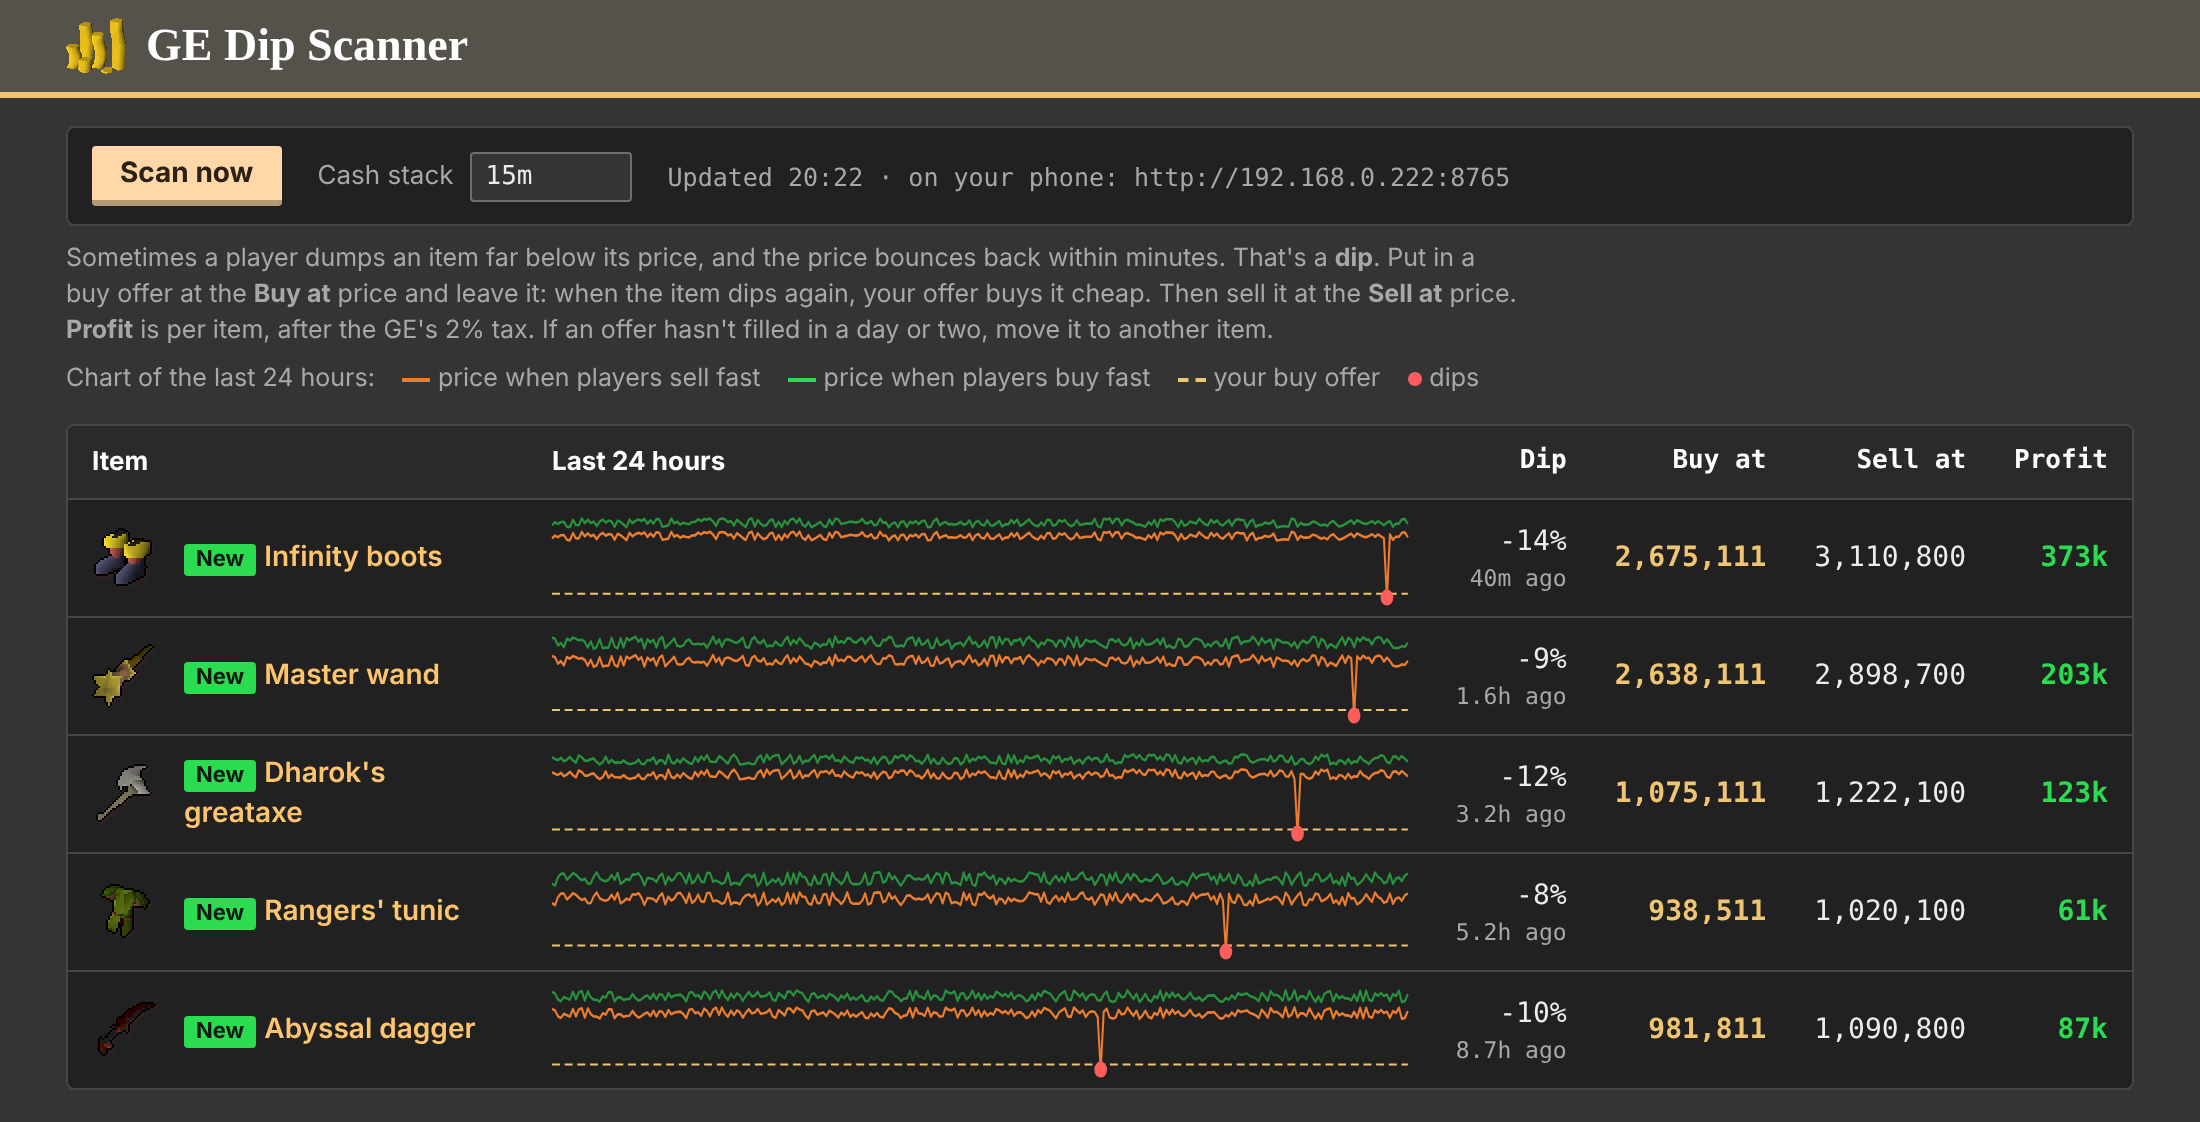
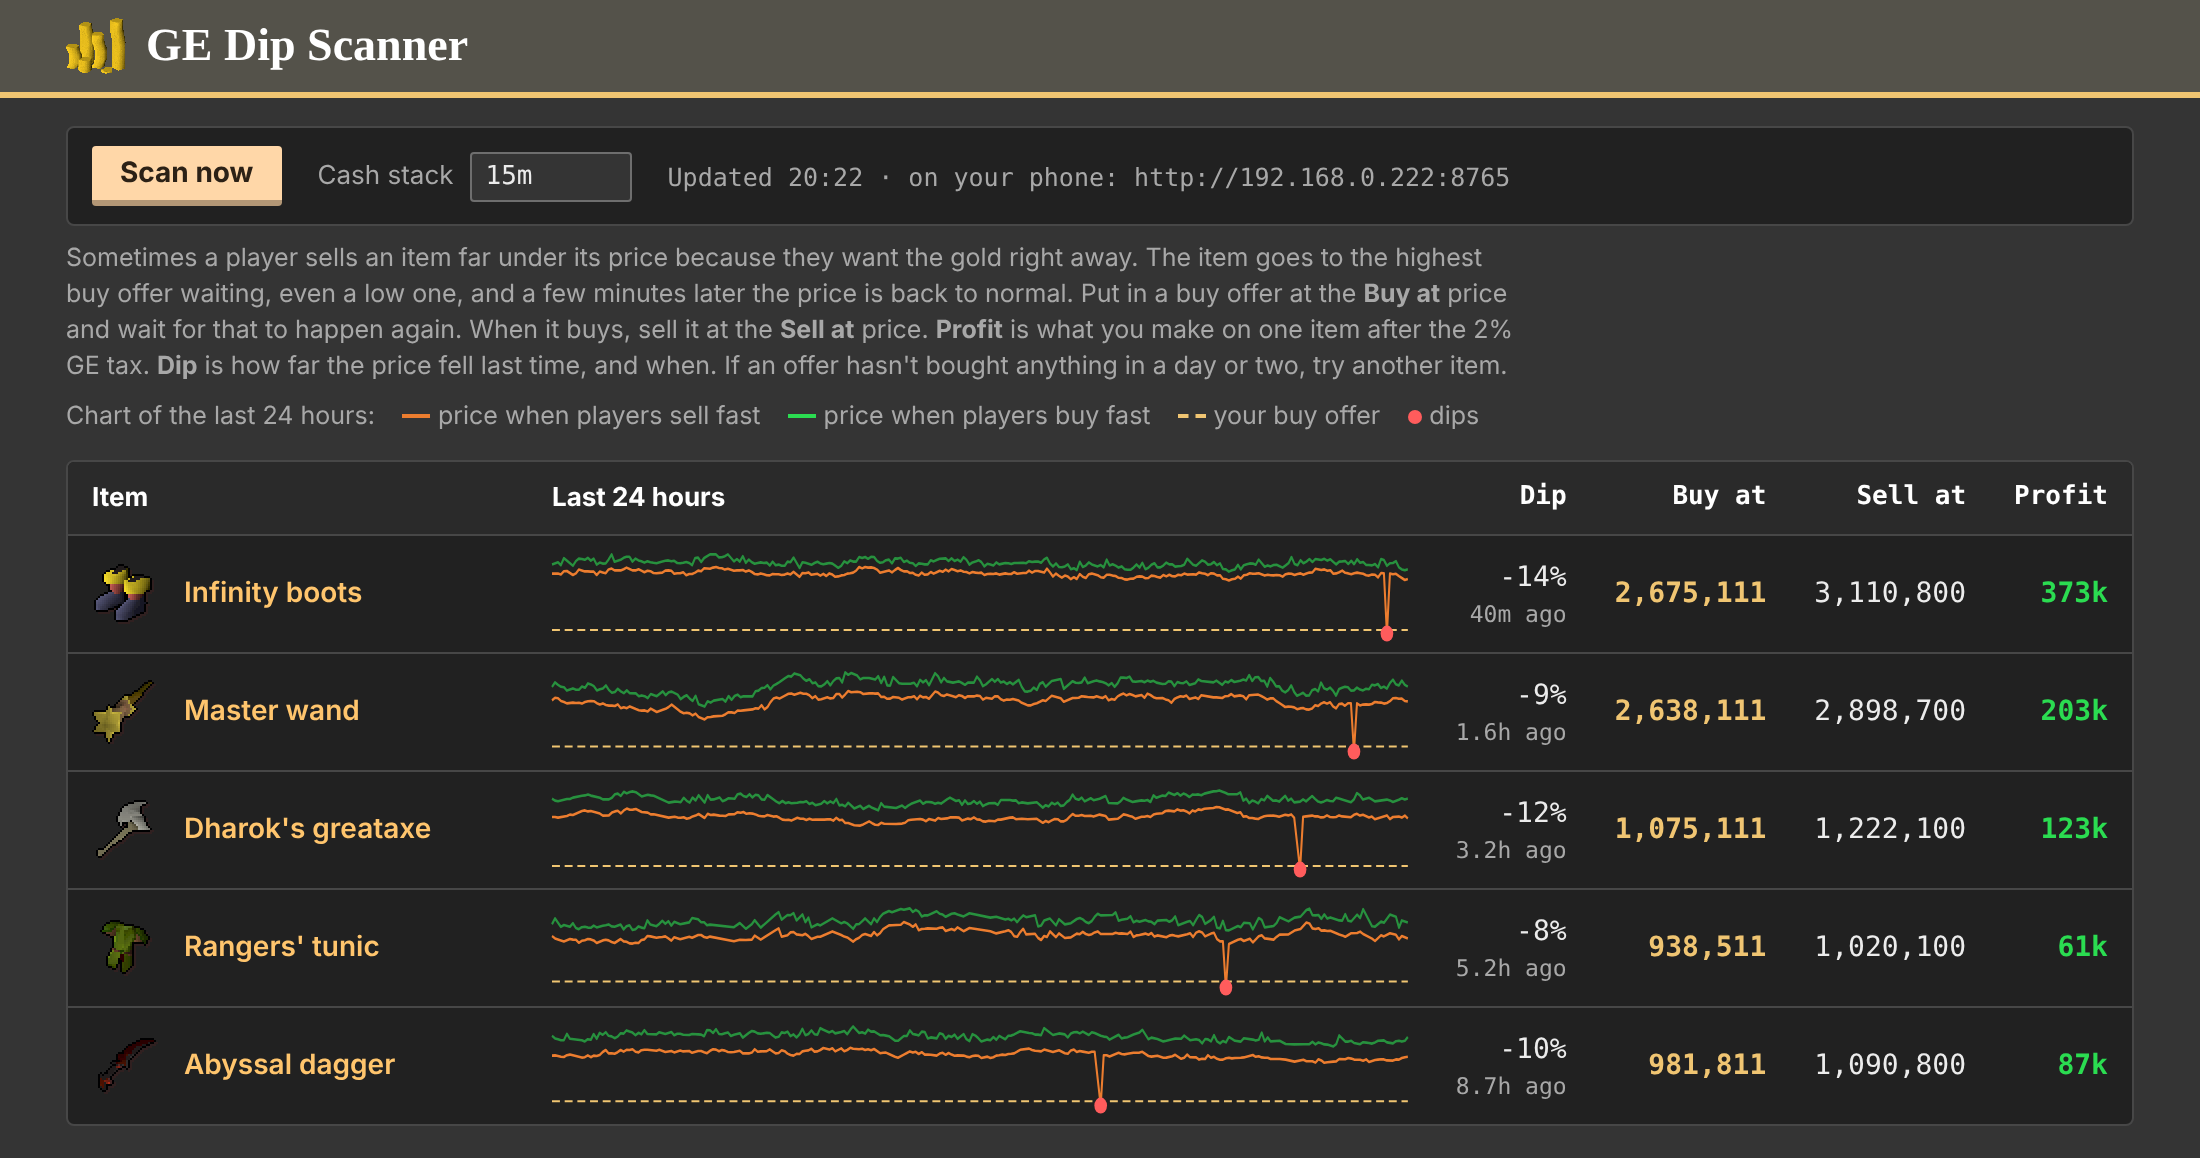
Explain why it makes money, in plain words
README and the page now say what happens in a dip (the item goes to the highest
buy offer waiting, then the price comes back), what each number means, and the
four steps to use it. Screenshots redone with more realistic example prices.

diff --git a/dip_scanner.py b/dip_scanner.py
@@ -704,10 +704,12 @@ th.num {{ text-align:right }}
 <main>
 {toolbar}
 <div class="legend">
-<p>Sometimes a player dumps an item far below its price, and the price bounces back within minutes.
-That's a <b>dip</b>. Put in a buy offer at the <b>Buy at</b> price and leave it: when the item dips
-again, your offer buys it cheap. Then sell it at the <b>Sell at</b> price. <b>Profit</b> is per item,
-after the GE's 2% tax. If an offer hasn't filled in a day or two, move it to another item.</p>
+<p>Sometimes a player sells an item far under its price because they want the gold right away.
+The item goes to the highest buy offer waiting, even a low one, and a few minutes later the price is
+back to normal. Put in a buy offer at the <b>Buy at</b> price and wait for that to happen again. When
+it buys, sell it at the <b>Sell at</b> price. <b>Profit</b> is what you make on one item after the
+2% GE tax. <b>Dip</b> is how far the price fell last time, and when. If an offer hasn't bought
+anything in a day or two, try another item.</p>
 <p>Chart of the last 24 hours: <i style="background:var(--sell)"></i>price when players sell fast
 <i style="background:var(--buy)"></i>price when players buy fast <i style="border-top:2px dashed var(--gold)"></i>your buy offer
 <i class="dot"></i>dips</p>

diff --git a/README.md b/README.md
@@ -1,21 +1,34 @@
 # OSRS GE Dip Scanner
 
-Finds Grand Exchange items that just had a price dip, and tells you what price to buy them at and
-what price to sell them at. I built it for my own flipping.
+A small program that finds Grand Exchange items you can buy cheap and sell for a profit. I made it
+for my own flipping.
 
 ![The scanner page](docs/desktop.png)
 
-## How it works
+## Why this makes money
 
-Sometimes a player dumps an item far below its price, and the price bounces back within minutes.
-That's a **dip**. The scanner finds items that just dipped and gives you three numbers for each:
+Sometimes a player sells an item far under its price because they want the gold right away. The GE
+gives their item to the highest buy offer waiting, even if that offer is low. A few minutes later the
+price is back to normal.
 
-- **Buy at**: put in a buy offer at this price and leave it. When the item dips again, your offer
-  buys it cheap.
-- **Sell at**: once you have the item, sell it at this price.
-- **Profit**: what you make on one item, after the GE's 2% tax.
+If your buy offer is the one waiting, you get the item cheap and sell it at the normal price.
 
-If an offer hasn't filled in a day or two, move it to another item.
+## What the scanner does
+
+It checks the busiest items in your price range and finds the ones where this has happened in the
+last day. For each one it shows:
+
+- **Dip**: how far the price fell last time, and when.
+- **Buy at**: the price to put your buy offer in at. It's just above where the price fell to last time.
+- **Sell at**: roughly what you can sell it for once you have it.
+- **Profit**: what you make on one item after the 2% GE tax.
+
+## How to use it
+
+1. Put in a buy offer for one of an item at its **Buy at** price.
+2. Wait. It can take a few hours or a day.
+3. When it buys, sell it at the **Sell at** price.
+4. If it hasn't bought anything in a day or two, cancel it and try another item on the list.
 
 ## Setup (Windows, once)
 
@@ -42,7 +55,7 @@ To use it away from home, install [Tailscale](https://tailscale.com) (free) on y
 phone, sign in to both with the same account, and open `http://<your PC's name>:8765` on your phone.
 Your PC has to be on with the scanner running.
 
-## Good to know
+## Details
 
 - It looks at items priced between 5% and 40% of your cash stack that trade at least 25 times a
   day, and shows the 10 with the most profit.
